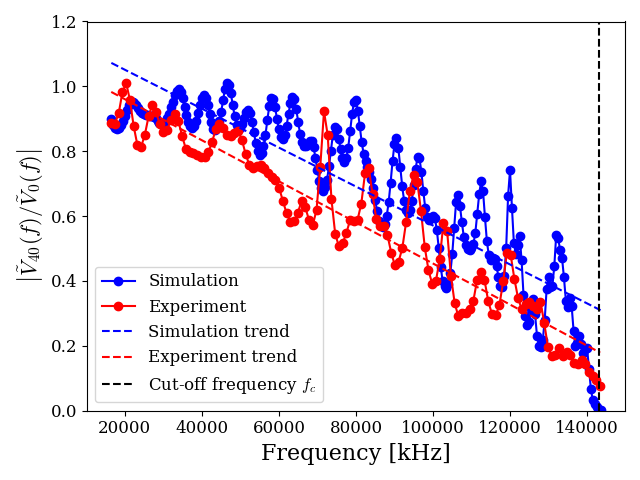
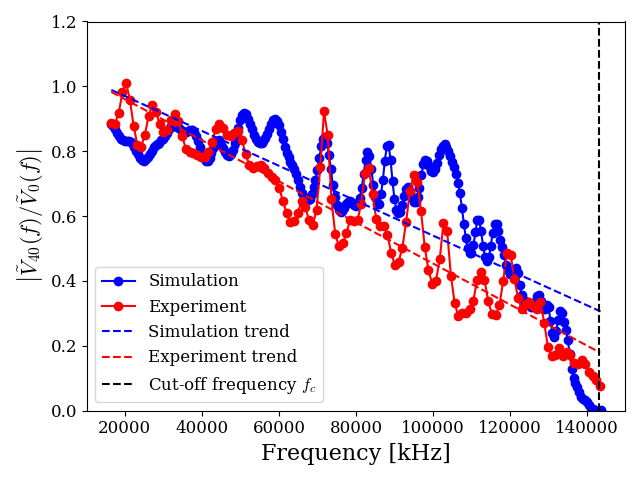
Optimized and improved simulation core
- Optimized sparce matrix multiplication
- Fixed png naming bug in script 07
- Included file overwriting in script 02
- Changed base model parameters to show the behavior after the cutoff
- Fixed executable bug
- Dispersion relation unwrapping still wip

Changed region(s): [[0.1562, 0.1562, 0.9375, 0.875], [0.1875, 0.125, 0.2188, 0.1562]]

diff --git a/src/electrical/solver.py b/src/electrical/solver.py
@@ -3,12 +3,23 @@ from numba import njit
 
 
 @njit
-def compute_deriv(Y, A, B, V_in_val):
-    return A @ Y + B * V_in_val
+def compute_deriv(Y, C, L, R_L_AC, R_in, R_out, V_in_val):
+    N = len(C)
+    dY = np.zeros_like(Y)
+
+    dY[0] = (V_in_val - Y[0]) / (R_in * C[0]) - Y[N] / C[0]
+    for i in range(1, N - 1):
+        dY[i] = (Y[N + i - 1] - Y[N + i]) / C[i]
+    dY[N - 1] = Y[2 * N - 2] / C[N - 1] - Y[N - 1] / (R_out * C[N - 1])
+
+    for i in range(N - 1):
+        dY[N + i] = (Y[i] - Y[i + 1] - R_L_AC[i] * Y[N + i]) / L[i]
+
+    return dY
 
 
 @njit
-def rk4_solve(t_eval, Y0, A, B, V_in_array):
+def rk4_solve(t_eval, Y0, C, L, R_L_AC, R_in, R_out, V_in_array):
     n_points = len(t_eval)
     n_states = len(Y0)
     Y_out = np.zeros((n_states, n_points))
@@ -23,10 +34,10 @@ def rk4_solve(t_eval, Y0, A, B, V_in_array):
         v_t_half = (V_in_array[i - 1] + V_in_array[i]) / 2.0
         v_t_next = V_in_array[i]
 
-        k1 = compute_deriv(Y_curr, A, B, v_t)
-        k2 = compute_deriv(Y_curr + dt / 2 * k1, A, B, v_t_half)
-        k3 = compute_deriv(Y_curr + dt / 2 * k2, A, B, v_t_half)
-        k4 = compute_deriv(Y_curr + dt * k3, A, B, v_t_next)
+        k1 = compute_deriv(Y_curr, C, L, R_L_AC, R_in, R_out, v_t)
+        k2 = compute_deriv(Y_curr + dt / 2 * k1, C, L, R_L_AC, R_in, R_out, v_t_half)
+        k3 = compute_deriv(Y_curr + dt / 2 * k2, C, L, R_L_AC, R_in, R_out, v_t_half)
+        k4 = compute_deriv(Y_curr + dt * k3, C, L, R_L_AC, R_in, R_out, v_t_next)
 
         Y_curr = Y_curr + (dt / 6) * (k1 + 2 * k2 + 2 * k3 + k4)
         Y_out[:, i] = Y_curr

diff --git a/src/electrical/simulation.py b/src/electrical/simulation.py
@@ -208,19 +208,6 @@ def simulate(config_path):
 
         # Build First-Order V-I State-Space Matrices
         total_states = 2 * N - 1
-        A = np.zeros((total_states, total_states))
-        B = np.zeros(total_states)
-
-        B[0] = 1 / (R_in * C[0])
-        A[0, 0] = -1 / (R_in * C[0])
-        A[N - 1, total_states - 1] = 1 / C[-1]
-
-        i = np.arange(N - 1)
-
-        A[i, N + i] = -1 / C[i]
-        A[i + 1, N + i] = 1 / C[i + 1]
-        A[N + i, i] = 1 / L[i]
-        A[N + i, i + 1] = -1 / L[i]
 
         V_in_all_runs = []
         V_out_nodes_all_runs = {node: [] for node in np.arange(1, 41)}
@@ -242,18 +229,15 @@ def simulate(config_path):
 
             R_out *= R_out_mult
 
-            # Update the load boundary condition in the A matrix for this specific frequency
-            A[N - 1, N - 1] = -1 / (R_out * C[-1])
-
             # Update Inductor AC Losses
             R_L_AC = R_L * (1 + k_power * f_current**power_rule)
-            idx = np.arange(N, 2 * N - 1)
-            A[idx, idx] = -R_L_AC / L
             Y0 = np.zeros(total_states)
 
             V_gen = V_gen_all_freqs[f_current]
 
-            Y_all = solver.rk4_solve(t_eval_points, Y0, A, B, V_gen)
+            Y_all = solver.rk4_solve(
+                t_eval_points, Y0, C, L, R_L_AC, R_in, R_out, V_gen
+            )
             V_clean = Y_all[:N, :]
 
             V_noisy = V_clean + np.random.normal(0, noise_std, V_clean.shape)

diff --git a/src/utils/io.py b/src/utils/io.py
@@ -49,7 +49,7 @@ def save_parquet(data, output_dir, prefix):
     Inputs:
         data (dict): The dictionary to be saved.
         output_dir (str): The directory where the parquet file will be saved.
-        prefix (str): The prefix of the parquet files (e.g., 'results_', 'targets_', 'axes_').
+        prefix (str): The prefix of the parquet files (e.g., 'results_', 'targets_', 'freqs_').
 
     Outputs:
         None
@@ -67,8 +67,8 @@ def save_parquet(data, output_dir, prefix):
 
     next_idx = max(existing_indices) + 1 if existing_indices else 1
 
-    df_freq = pd.DataFrame(data)
-    df_freq.to_parquet(
+    df = pd.DataFrame(data)
+    df.to_parquet(
         os.path.join(output_dir, prefix + f"{next_idx}.parquet"), engine="pyarrow"
     )
 

diff --git a/scripts/02_extract_features.py b/scripts/02_extract_features.py
@@ -110,8 +110,10 @@ def main():
             all_freqs_data["freqs_global"] = [freqs_global_node.tolist()]
 
     # Save all collected results and frequencies after processing all nodes
-    io.save_parquet(all_results, exp_dir, prefix="results_")
-    io.save_parquet(all_freqs_data, exp_dir, prefix="freqs_")
+    df_results = pd.DataFrame(all_results)
+    df_results.to_parquet(os.path.join(exp_dir, "results_1.parquet"), engine="pyarrow")
+    df_freq = pd.DataFrame(all_freqs_data)
+    df_freq.to_parquet(os.path.join(exp_dir, "freqs_1.parquet"), engine="pyarrow")
 
 
 if __name__ == "__main__":

diff --git a/scripts/05_dispersion_relation.py b/scripts/05_dispersion_relation.py
@@ -51,6 +51,7 @@ def main():
     H_node_exp = df_results[f"H_Phase_{node}"].iloc[sim_index]
     k_exp = -np.unwrap(H_node_exp) / node
 
+    # ! PHASE UNWRAPPING CURRENTLY MALFUNCTIONING
     # wrap_threshold = np.pi / node  # Half a wrap is a safe detection threshold
 
     # for i in range(1, len(k_exp)):

diff --git a/scripts/07_trend_comparison.py b/scripts/07_trend_comparison.py
@@ -77,7 +77,7 @@ def main():
     vis.axes_transfer_function(ax1)
 
     plt.tight_layout()
-    plt.savefig("figures/05_transfer_comparison.png")
+    plt.savefig("figures/07_trend_comparison.png")
 
 
 if __name__ == "__main__":
